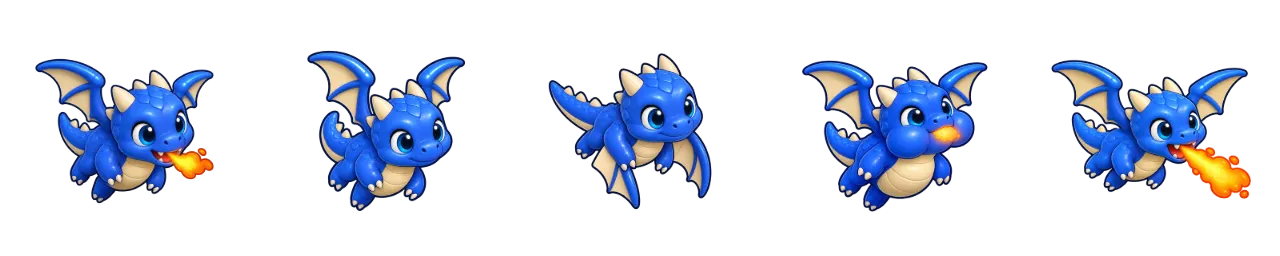
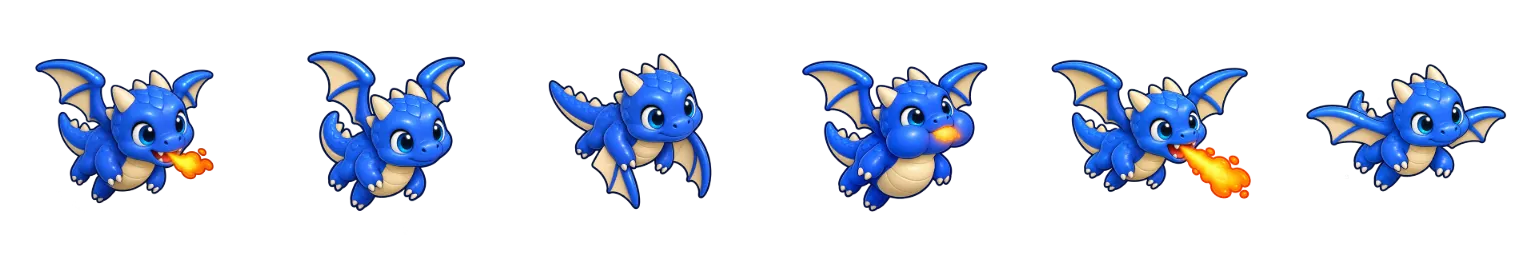
Draft Battle and Cell Survivor: fuller animation, no more wobble
Draft Battle:
- The walk reused the standing pose between steps, so it read as a slide. Every
  troop has a drawn in-between pose now, and the four-pose cycle is tied to the
  hop: a foot lands at the bottom, the legs pass at the top.
- Dragons flap through three wing poses.
- The catapult flings its arm, cranks it back and is loaded again in time for
  the next shot; the tower's flag flutters and a shot flashes from its top.
- Tower and catapult ship as strips like the troops, red recoloured from blue.

Cell Survivor:
- The cell no longer rocks and bounces. It pulls its arm back just before a
  volley, throws as the shots leave, breathes between volleys and blinks; a
  shot only nudges it back.

diff --git a/src/jvmMain/resources/static/draft/draft.js b/src/jvmMain/resources/static/draft/draft.js
@@ -663,8 +663,8 @@
     }
 
     async function loadArt() {
-        // Troops come as strips of five poses; buildings as one picture.
-        const names = ['wall', 'ground', ...ANIMATED.flatMap((t) => [`${t}-blue-anim`, `${t}-red-anim`]), ...['tower', 'catapult'].flatMap((t) => [`${t}-blue`, `${t}-red`])];
+        // Troops and buildings come as strips of poses; the wall is one picture.
+        const names = ['wall', 'ground', ...ANIMATED.flatMap((t) => [`${t}-blue-anim`, `${t}-red-anim`])];
         await Promise.all(names.map(async (n) => {
             const s = sprite(n);
             if (s.ok) return;
@@ -963,9 +963,10 @@
     }
 
     const ease = (x) => x * x * (3 - 2 * x);
-    // Poses in a troop's strip, POSE px each: idle, two steps, the wind-up and the strike.
-    const POSE = 256, WALK = [1, 0, 2, 0], WINDUP = 3, STRIKE = 4;
-    const ANIMATED = ['spear', 'knight', 'archer', 'goblin', 'mage', 'giant', 'dragon'];
+    // Poses in a troop's strip, POSE px each: idle, a step, the other step, the wind-up, the strike,
+    // and the legs passing between steps. A tower has idle, flag, fire; a catapult loaded, flung, cranking.
+    const POSE = 256, WALK = [1, 5, 2, 5], WINDUP = 3, STRIKE = 4;
+    const ANIMATED = ['spear', 'knight', 'archer', 'goblin', 'mage', 'giant', 'dragon', 'tower', 'catapult'];
 
     function draw(ctx, geo, cam, scene, alpha, now) {
         const {b, teams, flip} = scene;
@@ -1026,13 +1027,13 @@
 
         const star = STAR();
         for (const u of order) {
-            const strip = !u.fixed;
+            const strip = !u.wall;
             const s = art[u.wall ? 'wall' : (u.artKey || (u.artKey = `${u.type}-${teams[u.side]}${strip ? '-anim' : ''}`))];
             if (!s || !s.ok) continue;
             const x = u.sx, y = u.sy;
             const size = u.r * (u.wall ? 2.5 : u.fixed ? 3.3 : u.fly ? 4.2 : 3.7);
             // Every unit is a puppet on its feet: it leans, hops, squashes and stretches.
-            let ox = 0, oy = 0, face = 1, lean = 0, wide = 1, tall = 1, pose = u.fly ? 1 + (Math.floor(now / 170 + u.id) & 1) : 0;
+            let ox = 0, oy = 0, face = 1, lean = 0, wide = 1, tall = 1, pose = u.fly ? WALK[Math.floor(now / 95 + u.id) & 3] : 0;
             const target = u.target >= 0 ? b.units[u.target] : null;
             let ax = 0, ay = 0;   // unit vector to the target, on screen
             if (target) {
@@ -1051,7 +1052,8 @@
                         // A waddle: quick little feet for goblins, a heavy stomp for giants.
                         // Two steps to a hop cycle: a foot forward at each top.
                         const ph = clock * (0.3 + u.speed * 0.035), hop = Math.abs(Math.sin(ph));
-                        if (!u.fly) pose = WALK[Math.floor((ph / Math.PI) * 2 + 0.5) & 3];
+                        // A foot lands at the bottom of each hop, the legs pass at its top.
+                        if (!u.fly) pose = WALK[Math.floor(ph / (Math.PI / 2) + 0.5) & 3];
                         oy -= hop * u.r * (u.fly ? 0 : 0.3);
                         lean += Math.sin(ph) * 0.05 + 0.04;
                         tall *= 0.97 + hop * 0.06; wide *= 1.02 - hop * 0.04;
@@ -1077,12 +1079,17 @@
                         lean -= 0.06;
                     }
                     if (u.fly) {
-                        oy -= 30 + Math.sin(clock * 0.12) * 6 + (pose === 2 ? 4 : pose === 1 ? -3 : 0);
+                        oy -= 30 + Math.sin(clock * 0.12) * 6 + (pose === 2 ? -4 : pose === 1 ? 3 : 0);
                     }
-                } else if (act && since < 8 && !u.wall) {
-                    // Buildings jolt when they fire.
-                    const w = 1 - ease(since / 8);
-                    tall *= 1 - w * 0.1; wide *= 1 + w * 0.07; oy += w * 2;
+                } else if (u.type === 'catapult') {
+                    face = target && ax < 0 ? -1 : 1;
+                    // The arm flies up and over, then is cranked back until the next boulder is loaded.
+                    if (act) pose = since < 3 ? 1 : since < 12 ? 2 : u.cdLeft > u.cd * 0.35 ? 1 : 0;
+                    if (act && since < 8) { const w = 1 - ease(since / 8); lean += w * 0.12; ox += ax * 5 * w; oy += ay * 5 * w - w * 3; tall *= 1 + w * 0.05; }
+                } else if (u.type === 'tower') {
+                    // The flag flutters; a shot flashes from the top and jolts the stones.
+                    pose = act && since < 4 ? 2 : Math.floor(now / 380 + u.id) & 1;
+                    if (act && since < 6) { const w = 1 - ease(since / 6); tall *= 1 - w * 0.05; wide *= 1 + w * 0.04; }
                 }
                 // A blow knocks it back and flattens it for a moment.
                 const hitAge = t - (scene.hits.get(u.id) ?? -99);

diff --git a/src/jvmMain/resources/static/cells/cells.js b/src/jvmMain/resources/static/cells/cells.js
@@ -47,7 +47,7 @@
 
     const heads = LOOKS.map((l) => `virus-${l}`), bites = LOOKS.map((l) => `virus-${l}-bite`), bodies = LOOKS.map((l) => `body-${l}`);
     const NAMES = ['dish', 'hero', 'heart', 'pill', 'scalpel', 'bubble', 'tower', 'satellite', 'maw', 'dna', 'swab',
-        'hero-shoot', 'hero-blink', ...LOOKS.flatMap((l) => [`virus-${l}`, `virus-${l}-bite`, `body-${l}`])];
+        'hero-shoot', 'hero-blink', 'hero-windup', 'hero-breathe', ...LOOKS.flatMap((l) => [`virus-${l}`, `virus-${l}-bite`, `body-${l}`])];
     const pics = {};
     let loaded = null;
     function loadPics() {
@@ -412,17 +412,18 @@
             g.drawImage(glow('rgba(110, 200, 255, .9)'), cell.x - 60, cell.y - 60, 120, 120);
             g.globalAlpha = 1;
         }
-        // The cell kicks back from every volley and leans into its aim.
+        // The cell throws in time with its shots: arm back just before a volley, forward as it
+        // flies, and it breathes in between. It stands firm; only a shot nudges it back.
         const fired = run.shots.length;
         if (fired > heroShots && fired) { kick = 1; kickA = run.shots[fired - 1].a; }
         heroShots = fired;
-        kick = Math.max(0, kick - 0.09);
-        const still2 = calm();
-        const kx = still2 ? 0 : -Math.cos(kickA) * 7 * kick, ky = still2 ? 0 : -Math.sin(kickA) * 7 * kick;
-        const bounce = still2 ? 0 : Math.abs(Math.sin(t * 4)) * 3;
-        const heroPose = kick > 0.35 ? 'hero-shoot' : !still2 && (t + 0.4) % 3.2 < 0.16 ? 'hero-blink' : 'hero';
-        turned(heroPose, 66, cell.x + kx, cell.y + ky - bounce, still2 ? 0 : Math.sin(t * 2.2) * 0.08 + Math.cos(kickA) * 0.2 * kick, 1 + kick * 0.1 + (still2 ? 0 : Math.sin(t * 8) * 0.02));
-        base();
+        kick = Math.max(0, kick - 0.07);
+        const quiet = calm();
+        const due = run.timers.pill ?? 1;
+        const heroPose = kick > 0.45 ? 'hero-shoot' : due < 0.13 ? 'hero-windup'
+            : !quiet && (t + 0.4) % 3.2 < 0.14 ? 'hero-blink' : !quiet && t % 1.4 < 0.7 ? 'hero-breathe' : 'hero';
+        const back = quiet ? 0 : kick * kick * 5;
+        sprite(heroPose, 66, cell.x - Math.cos(kickA) * back, cell.y - Math.sin(kickA) * back);
         const armed = new Map(run.armed);
         const sc = armed.get('scalpel');
         if (sc) {

diff --git a/src/jvmMain/resources/static/sw.js b/src/jvmMain/resources/static/sw.js
@@ -48,6 +48,10 @@ const SHELL = [
     '/static/draft/img/mage-red-anim.webp',
     '/static/draft/img/spear-blue-anim.webp',
     '/static/draft/img/spear-red-anim.webp',
+    '/static/draft/img/catapult-blue-anim.webp',
+    '/static/draft/img/catapult-red-anim.webp',
+    '/static/draft/img/tower-blue-anim.webp',
+    '/static/draft/img/tower-red-anim.webp',
     '/static/draft/img/archer-blue.webp',
     '/static/draft/img/archer-red.webp',
     '/static/draft/img/armor.webp',
@@ -101,6 +105,8 @@ const SHELL = [
     '/static/cells/img/evolve.webp',
     '/static/cells/img/haste.webp',
     '/static/cells/img/heart.webp',
+    '/static/cells/img/hero-breathe.webp',
+    '/static/cells/img/hero-windup.webp',
     '/static/cells/img/hero-blink.webp',
     '/static/cells/img/hero-shoot.webp',
     '/static/cells/img/virus-boss-bite.webp',

diff --git a/CLAUDE.md b/CLAUDE.md
@@ -60,8 +60,8 @@ needs to know.
   Draft `fight()` nobody watches raises none. Keep new effects inside those rules.
 - Generated art lives in `static/draft/img` and `static/cells/img` (WebP) and is
   precached in `sw.js`; the large source PNGs are not in the repo.
-  Draft troops are strips of five poses (`<unit>-<team>-anim.webp`: idle, two steps,
-  wind-up, strike), built by `tools/draft-strips.cjs` from the source frames in
+  Draft troops and buildings are strips of poses (`<unit>-<team>-anim.webp`: idle, steps,
+  legs passing, wind-up, strike; tower and catapult fire poses), built by `tools/draft-strips.cjs` from the source frames in
   `assets/sprites`: it anchors every pose on the feet and makes red by recolouring blue.
 - Hide & Meow's track and endless boards share `generate`; endless indices start at
   `ENDLESS_BASE` so the two never hand out the same board.
